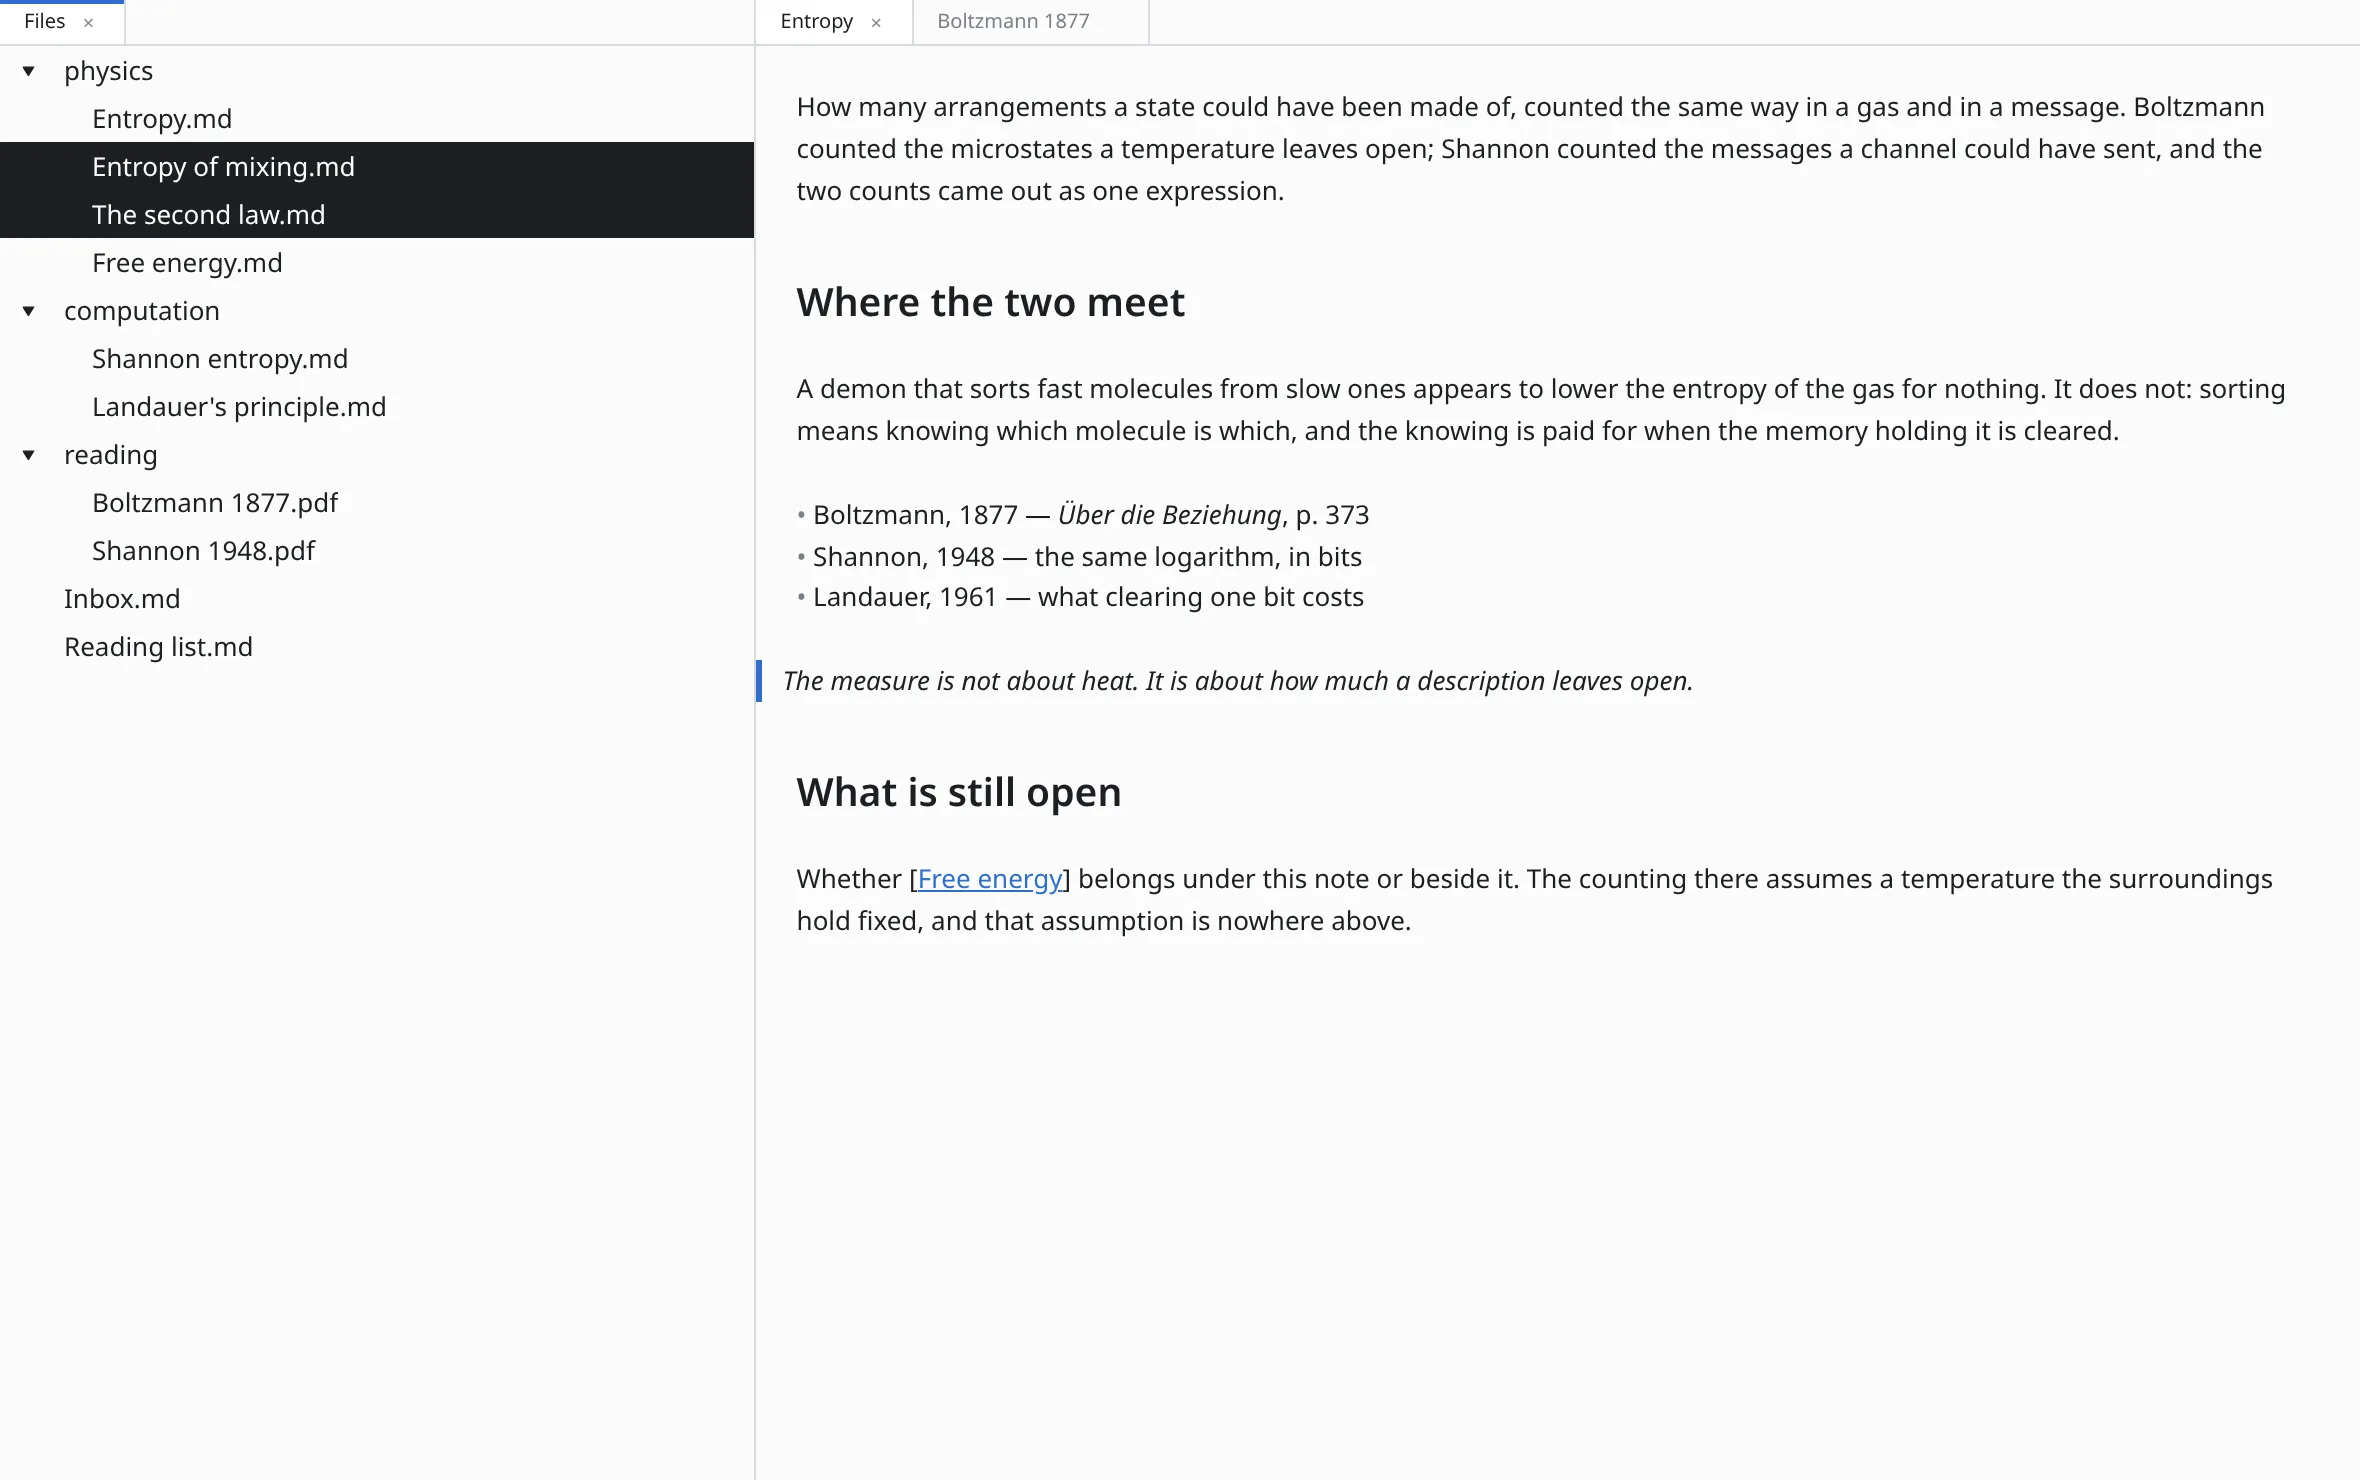
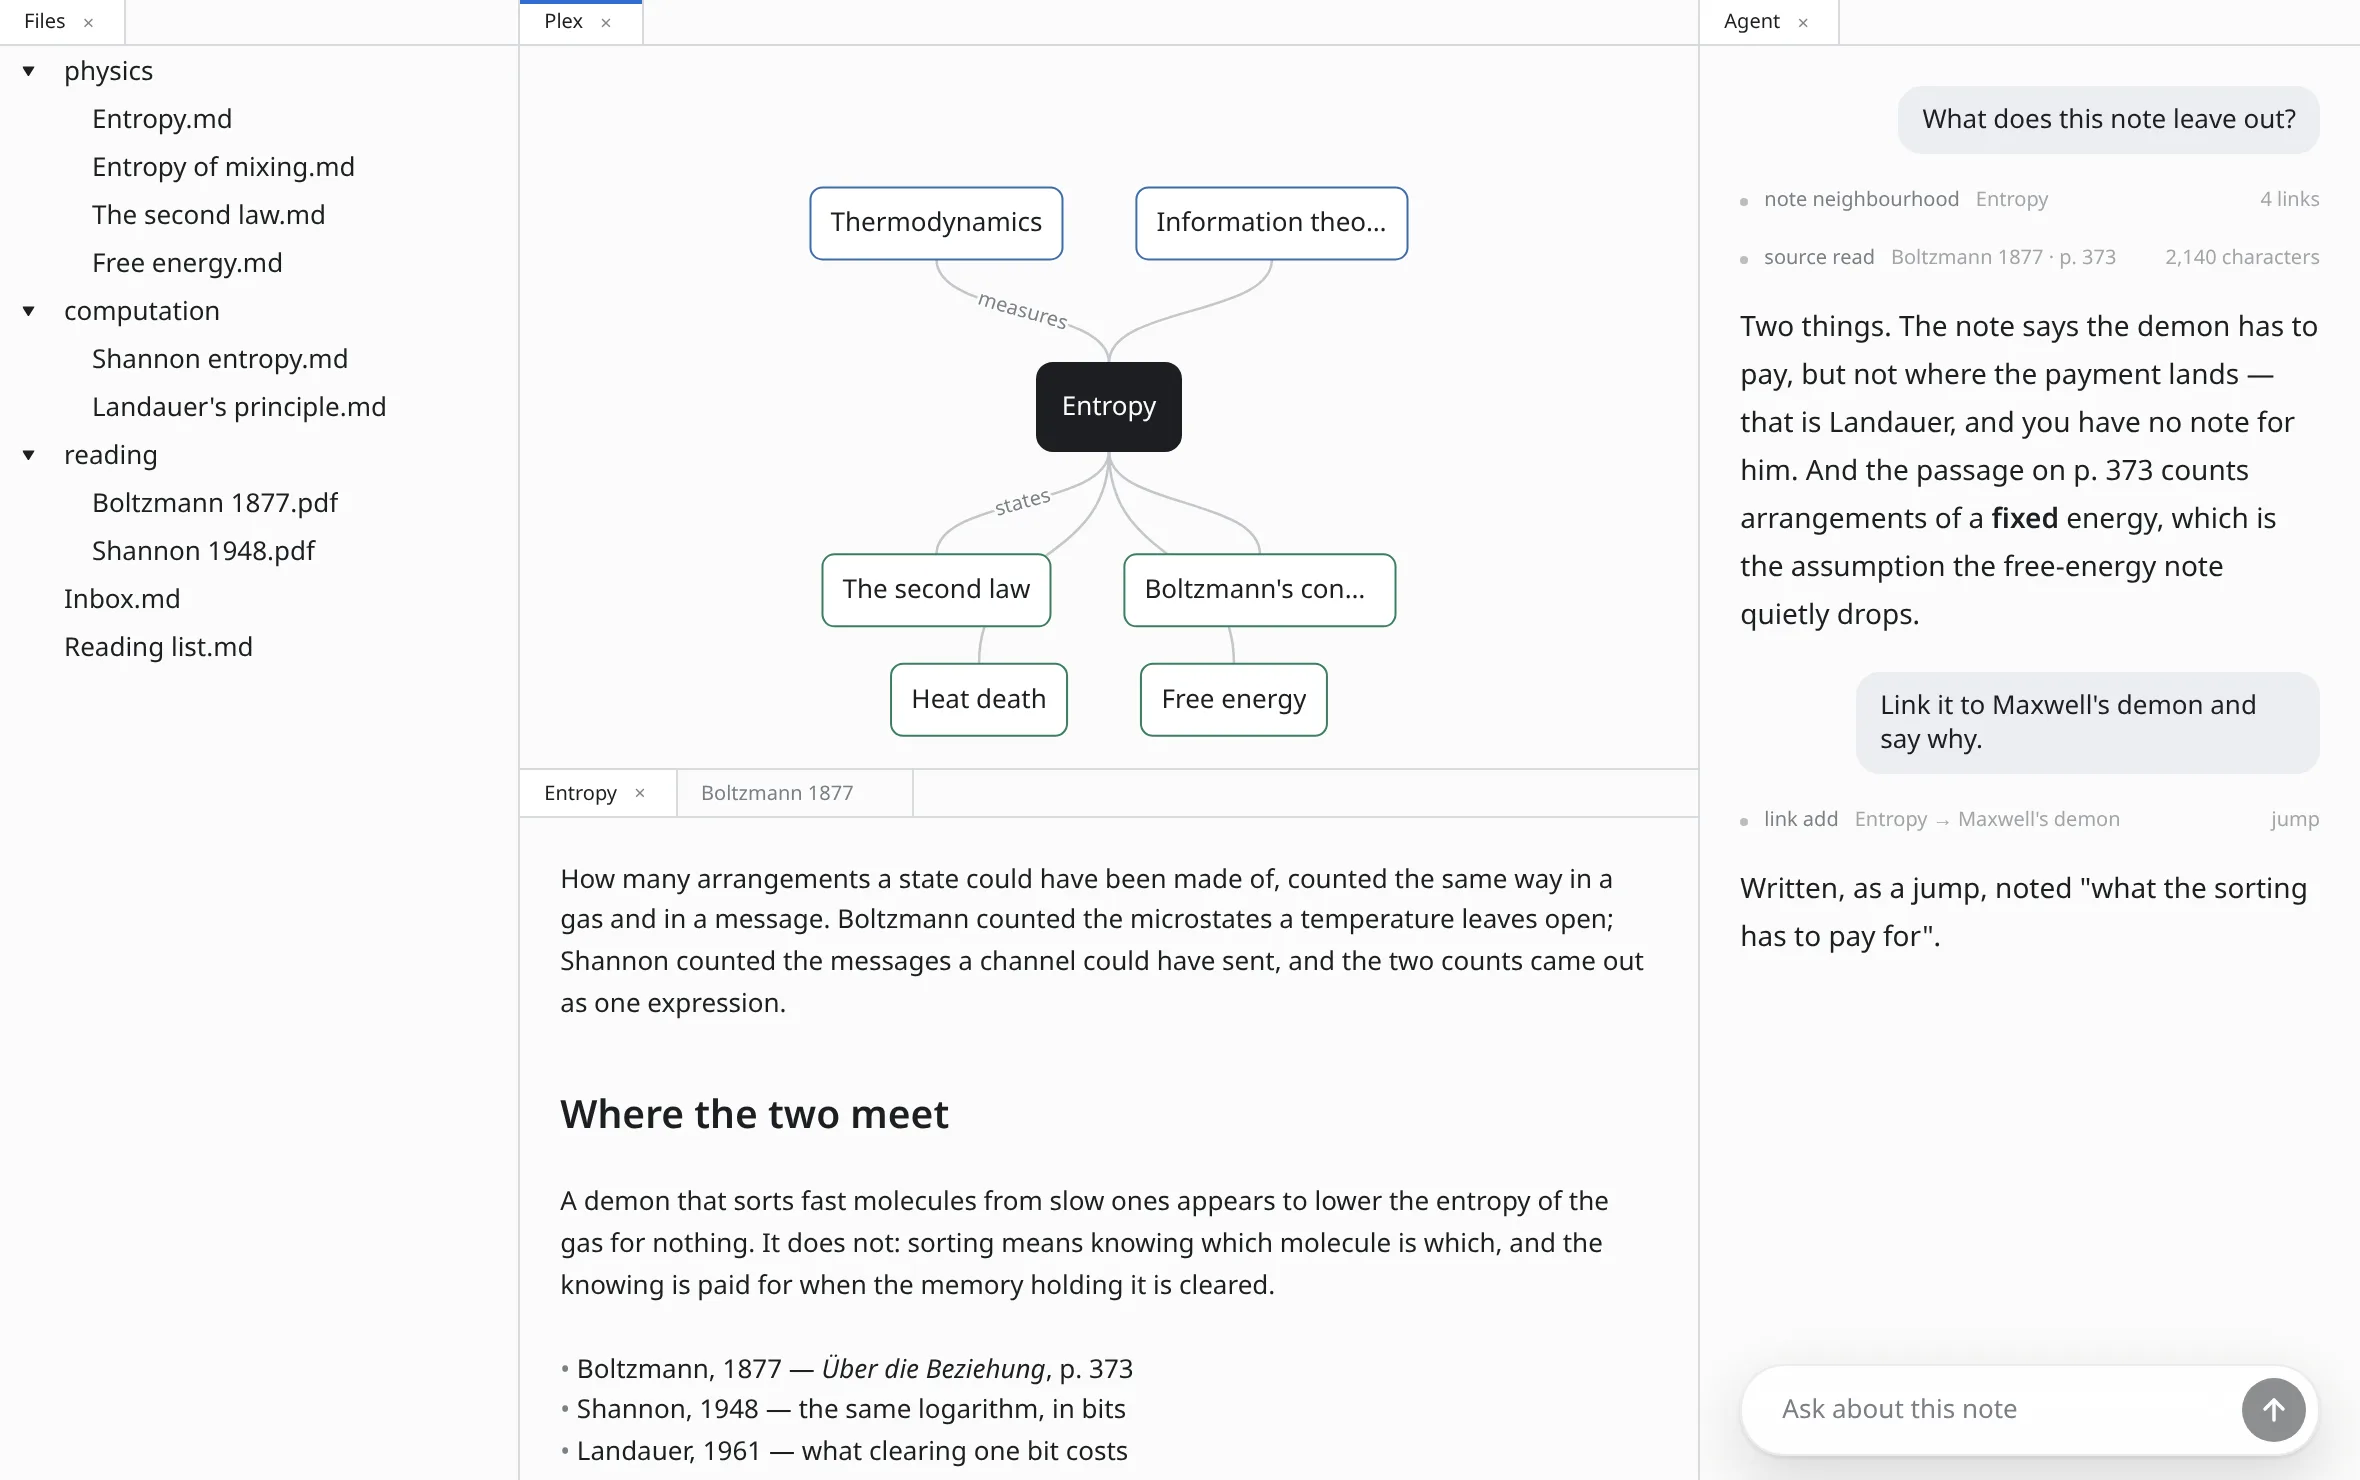
feat(ui): the files stand beside the map and the note in one window
The story the picture of a vault's folders is taken from divides the window
four ways: the folders, the map over the note it is about, and the agent
along the edge. Nothing is chosen in the tree — a selection in a picture
reads as something the reader did.

diff --git a/modules/libs/ui/src/screens/Window.stories.ts b/modules/libs/ui/src/screens/Window.stories.ts
@@ -71,7 +71,6 @@ const ROWS: readonly Row[] = [
 ]
 
 const OPEN = ['physics', 'computation', 'reading']
-const CARRIED = ['mixing', 'second-law']
 
 const node = (id: string, title: string, seat: PlexNode['seat']): PlexNode => ({
   id,
@@ -115,6 +114,9 @@ const around = (related: readonly PlexNode[]): PlexNeighbourhood => ({
 
 /** What a pane of a divided window has the width for. */
 const NEIGHBOURHOOD = around(RELATED)
+
+/** What a pane sharing its column with a note has the width for. */
+const CLOSE = around(RELATED.slice(0, 6))
 
 /**
  * What a pane with the window to itself has the room for: wider at the sides,
@@ -431,7 +433,6 @@ const screen = ({
       TABS,
       ROWS,
       OPEN,
-      CARRIED,
       PLEX,
       NOTE,
       BOOK,
@@ -470,7 +471,6 @@ const screen = ({
             v-else-if="id === FILES"
             :rows="ROWS"
             :open="OPEN"
-            :selected="CARRIED"
             name="The folders and files of the vault"
           />
         </template>
@@ -609,12 +609,19 @@ export const Filing: Story = {
       workspace: () => ({
         root: branch(
           'root',
-          [pane('main', [FILES]), pane('middle', [NOTE, BOOK], NOTE)],
-          [0.32, 0.68],
+          [
+            pane('main', [FILES]),
+            // A branch inside a horizontal one is drawn the other way, so the
+            // map stands over the note it is about.
+            branch('middle', [pane('map', [PLEX]), pane('note', [NOTE, BOOK], NOTE)], [0.52, 0.48]),
+            pane('aside', [AGENT]),
+          ],
+          [0.22, 0.5, 0.28],
         ),
         axis: 'horizontal',
-        focus: 'main',
+        focus: 'map',
       }),
+      neighbourhood: CLOSE,
     }),
 }
 
